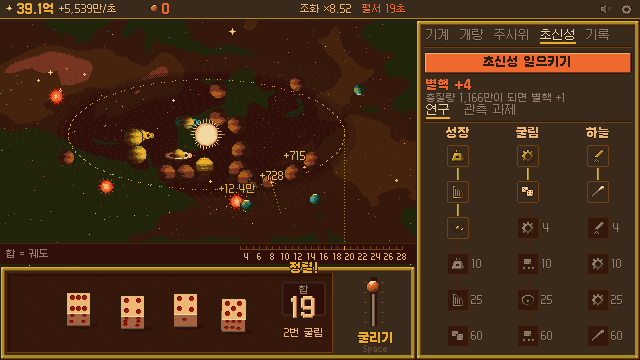
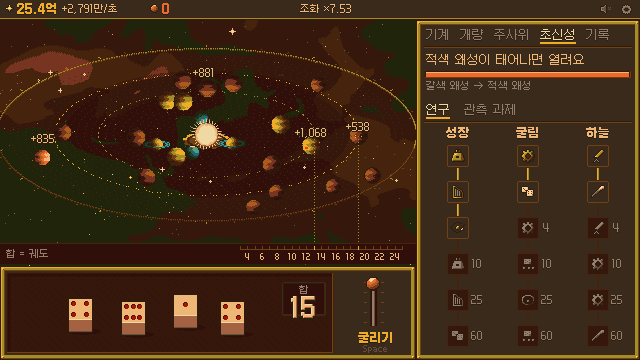
오러리 놋쇠 고리, 주사위 앞면 정리

diff --git a/src/view_orrery.js b/src/view_orrery.js
@@ -46,6 +46,30 @@
     gx.setClip(V.x, V.y, V.w, opts.noRuler ? 340 : V.h - 22);
     var L = layout(st.orbits);
     st._layout = L;
+    // 놋쇠 테두리 고리 (오러리 기계의 바깥 틀)
+    var rmx = 210, rmy = 86;
+    for (var ri = 0; ri < 720; ri++) {
+      var ra = ri / 720 * Math.PI * 2;
+      var rx = Math.round(CX + Math.cos(ra) * rmx), ry = Math.round(CY + Math.sin(ra) * rmy);
+      var lit = Math.sin(ra) < 0.15; // 위쪽(뒤) 고리는 빛을 받음
+      gx.pset(rx, ry, lit ? 2 : 11); gx.pset(rx, ry + 1, lit ? 11 : 18);
+    }
+    for (var tk = 0; tk < 48; tk++) {
+      var ta = tk / 48 * Math.PI * 2, big = tk % 4 === 0;
+      for (var q = 0; q < (big ? 4 : 2); q++) {
+        var tx = Math.round(CX + Math.cos(ta) * (rmx + 2 + q)), ty = Math.round(CY + Math.sin(ta) * (rmy + 2 + q * 0.45));
+        gx.pset(tx, ty, big ? (q === 0 ? 3 : 2) : 11);
+      }
+    }
+    // 중심 받침 (톱니 원판)
+    for (var by = -9; by <= 9; by++) for (var bx = -24; bx <= 24; bx++) {
+      var e = (bx * bx) / (22 * 22) + (by * by) / (8 * 8);
+      var ang = Math.atan2(by * 2.6, bx), tooth = ((Math.floor((ang + Math.PI) / (Math.PI * 2) * 24)) & 1) === 0;
+      var lim = tooth ? 1.18 : 1;
+      if (e > lim) continue;
+      var c = e > 0.82 ? (by < 0 ? 3 : 11) : (e > 0.6 ? 18 : (by < -2 ? 2 : 11));
+      gx.pset(CX + bx, CY + 6 + by, c);
+    }
     // 궤도선
     st.orbits.forEach(function (s, i) {
       var o = L.map[s];

diff --git a/src/dice3d.js b/src/dice3d.js
@@ -183,7 +183,7 @@
     for (var f = 0; f < np; f++) {
       var nwf = wn[f];
       var facing = -dot(nwf, VD);
-      if (facing < (sh.pips ? 0.38 : 0.12)) continue;
+      if (facing < (sh.pips ? 0.6 : 0.12)) continue;
       var pl = planes[f];
       var val = die.faces[f];
       var siF = shadeIdx(dot(nwf, LT));
